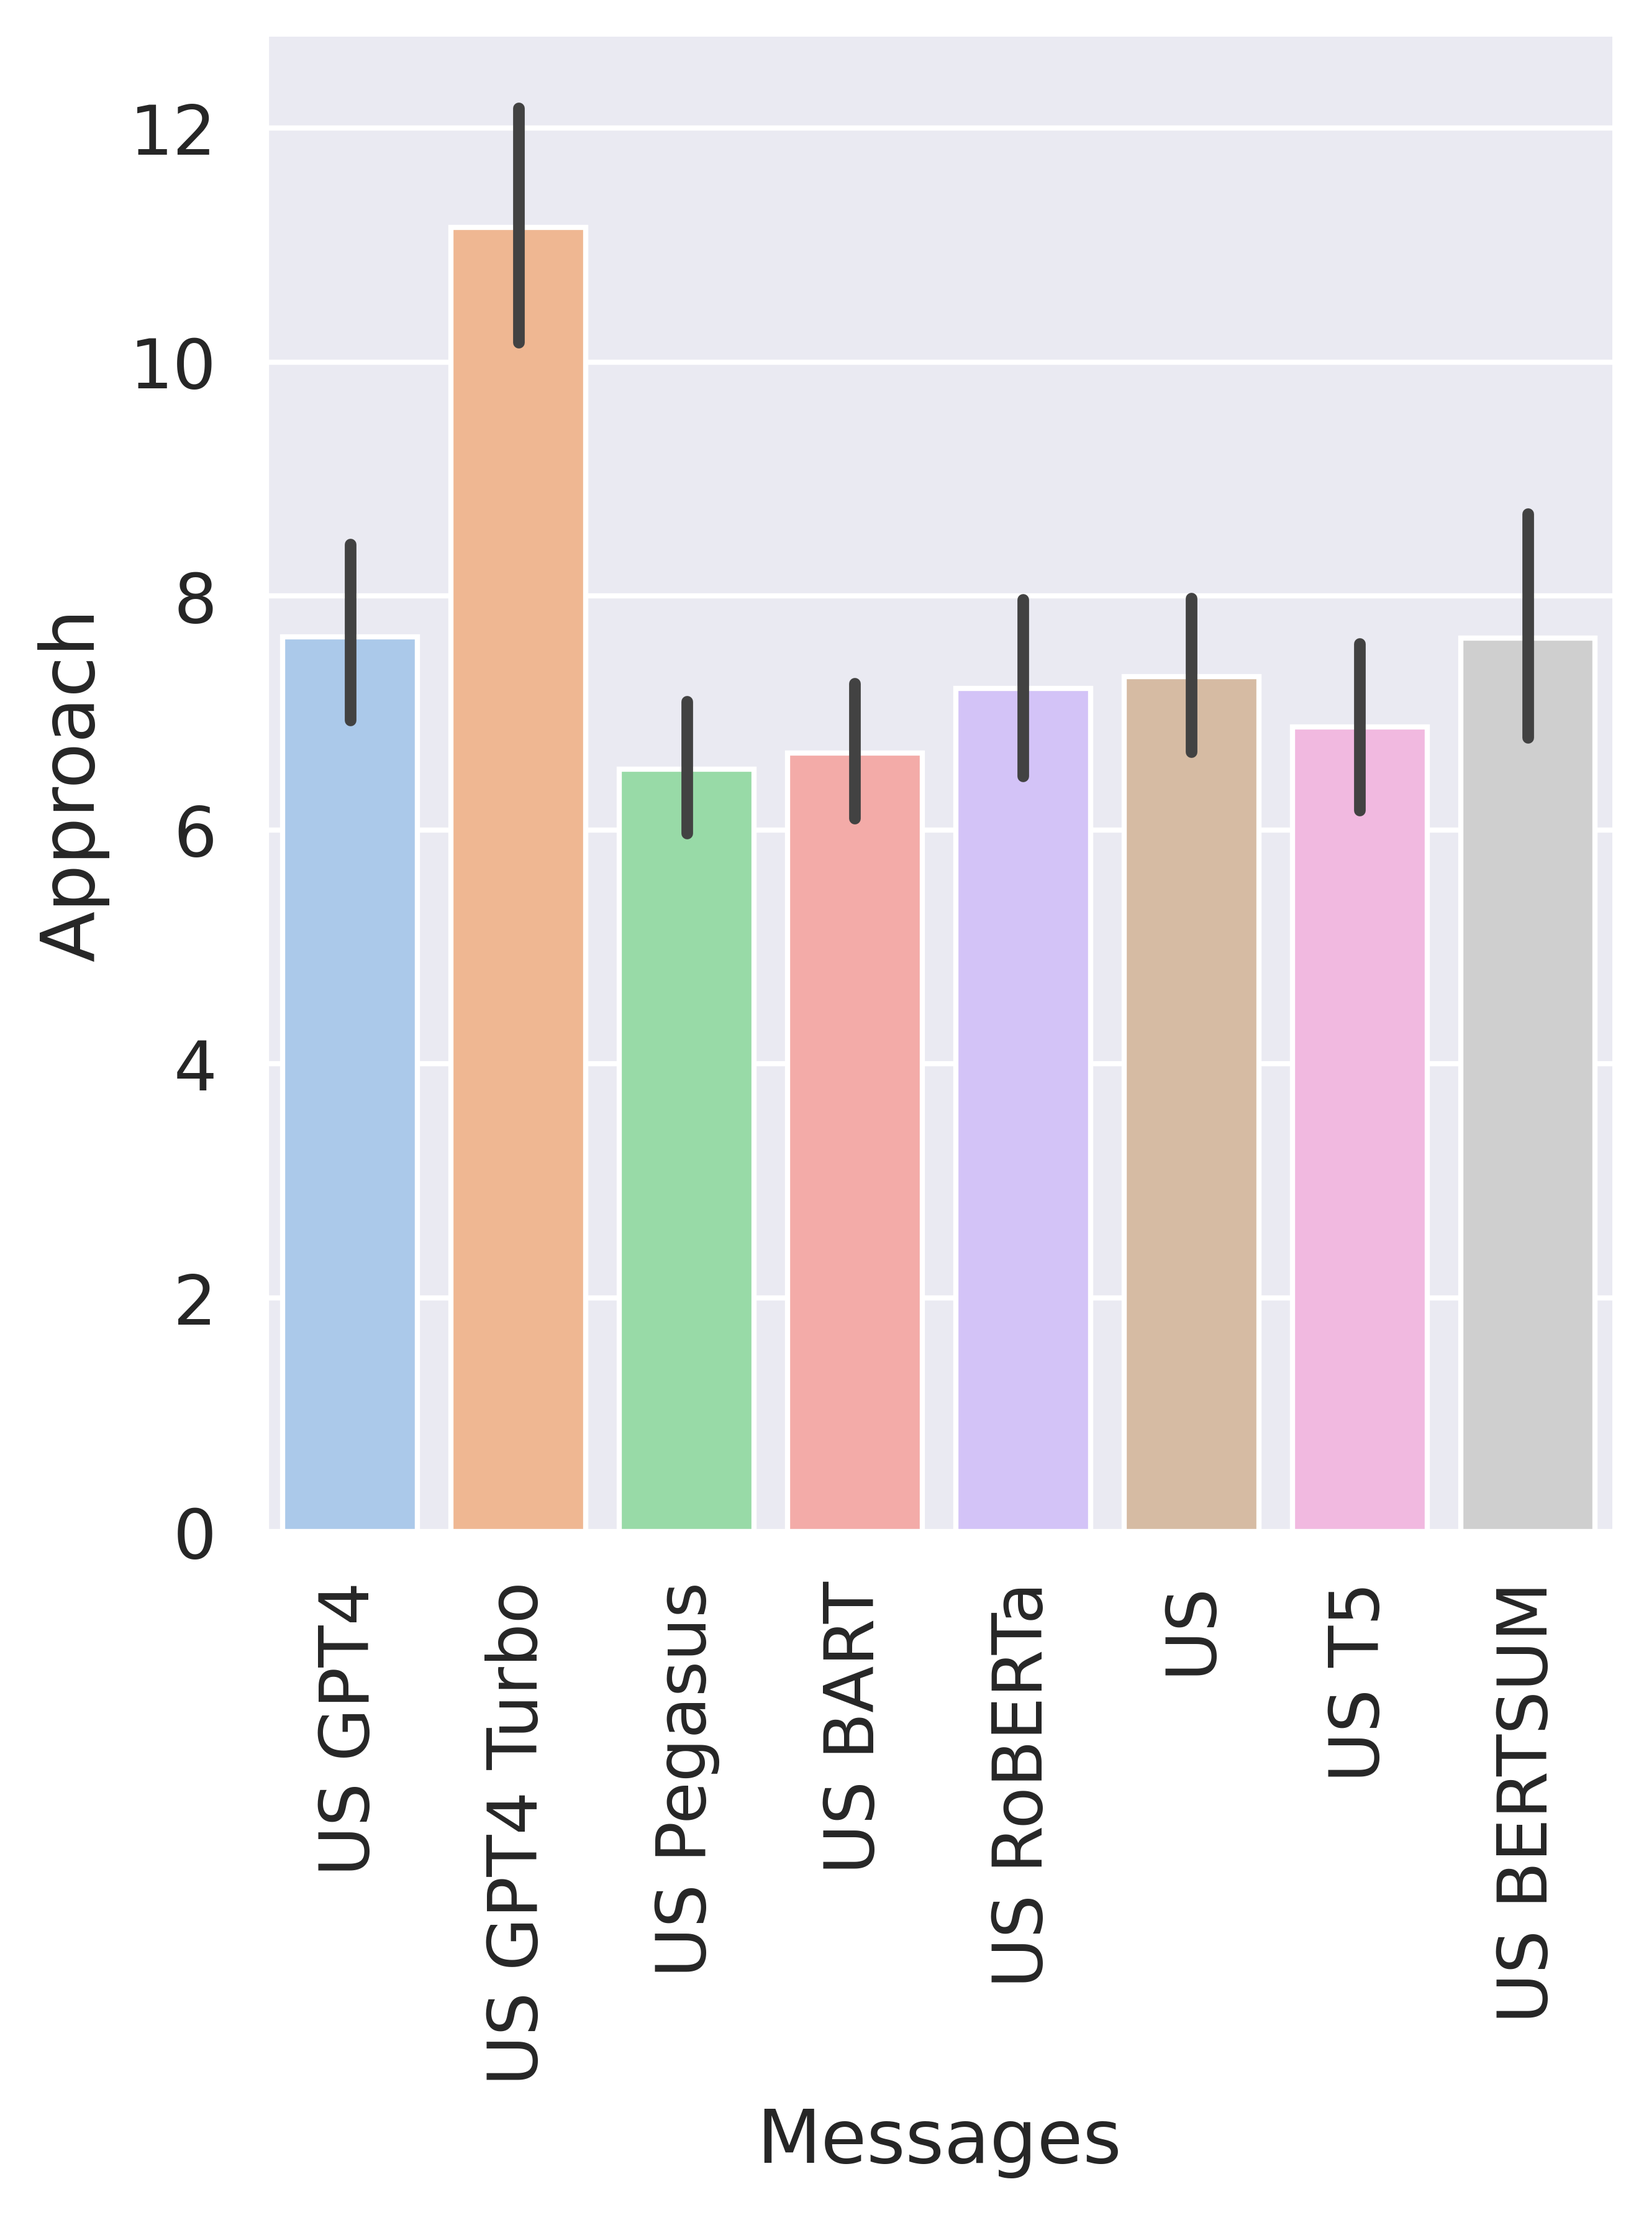
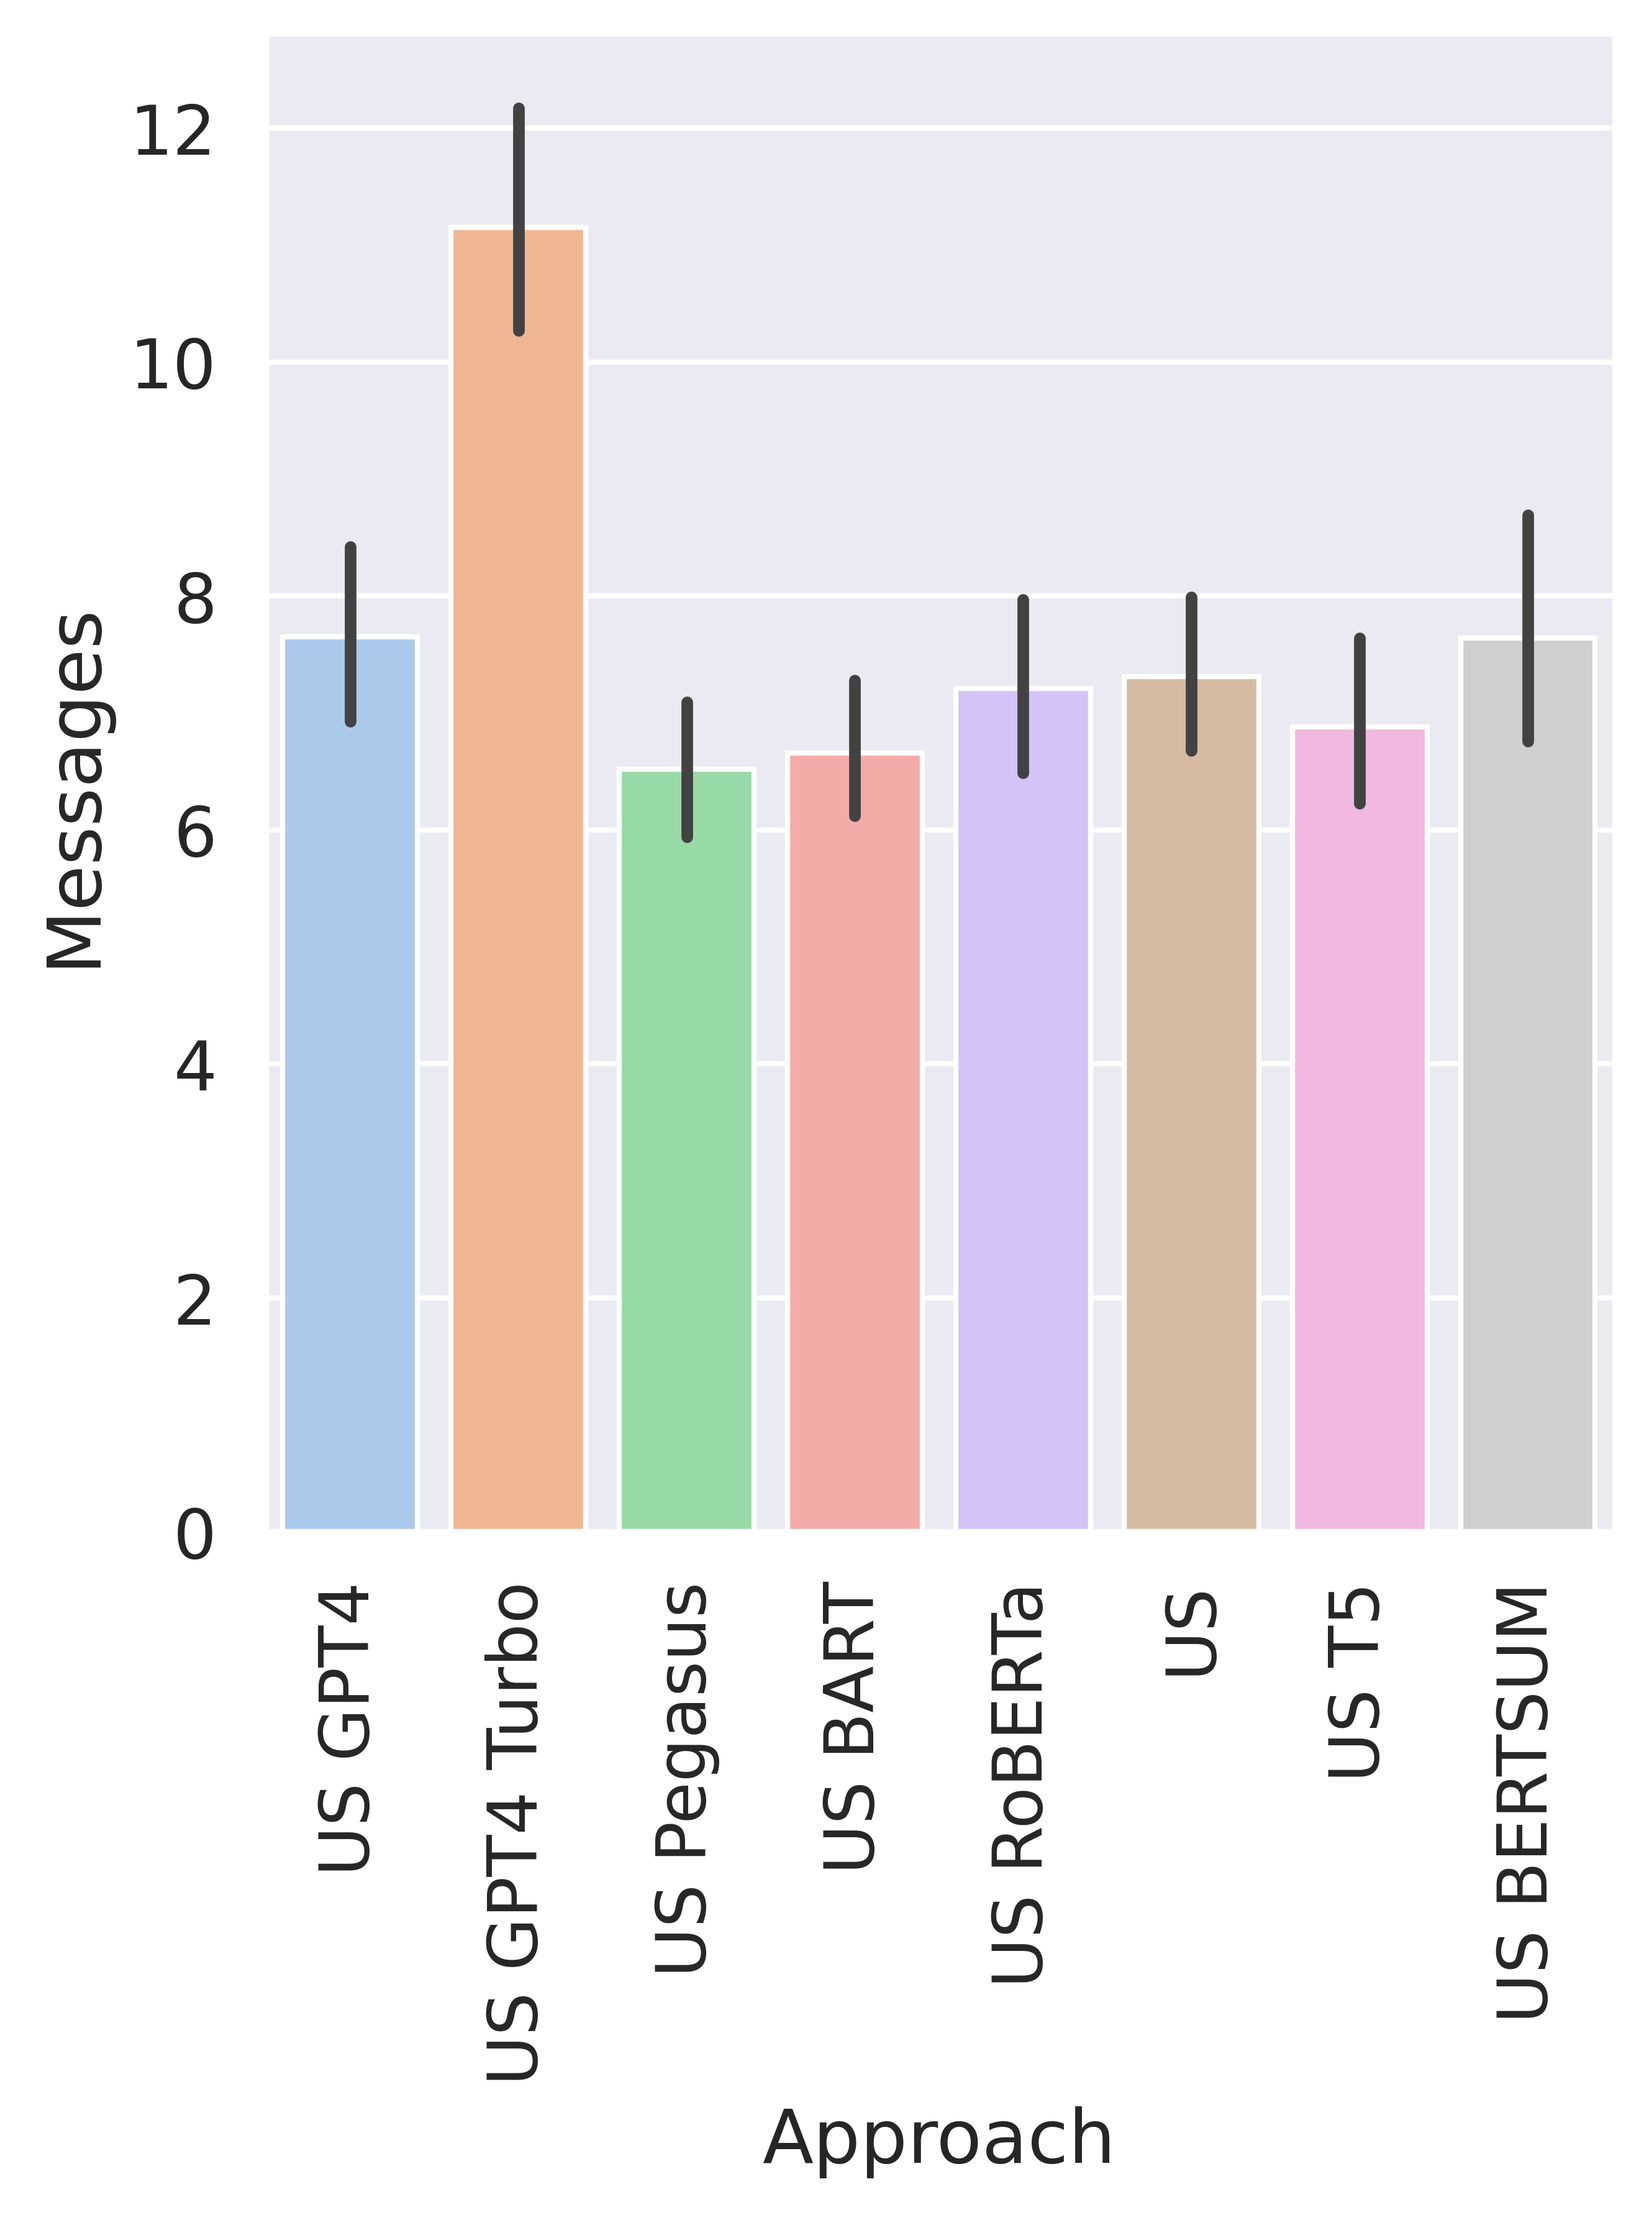
minor changes to the plots

Changed region(s): [[0.4633, 0.9341, 0.6795, 0.9964], [0.0309, 0.2802, 0.0618, 0.4359]]

diff --git a/src/Eval_vis.py b/src/Eval_vis.py
@@ -41,12 +41,12 @@ plot = sns.catplot(
     y="messages",
     # hue='cohesion',
     kind='bar',
-    palette = 'pastel'
+    palette = 'pastel',
 )
 # palettes: ch:.25, Blues,
 # plt.title("Number of Messages generated with each approach")
-plt.ylabel("Approach")
-plt.xlabel("Messages")
+plt.ylabel("Messages")
+plt.xlabel("Approach")
 plt.xticks(rotation=90)
 
 plt.savefig("../images/messages3.png", dpi=600, bbox_inches = 'tight')
